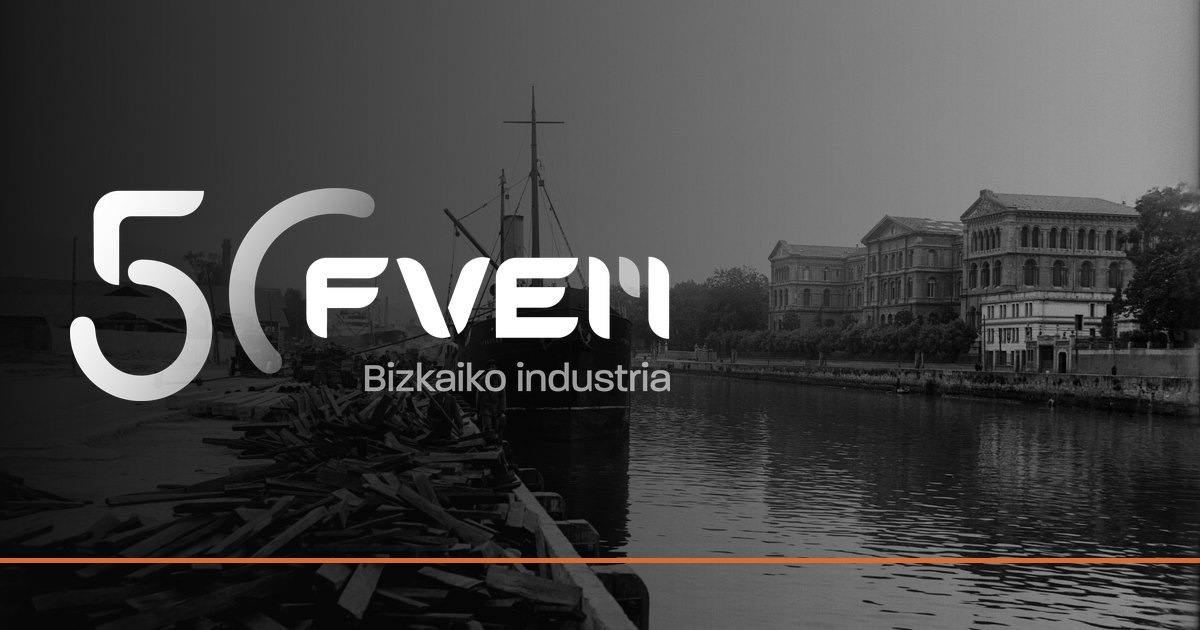
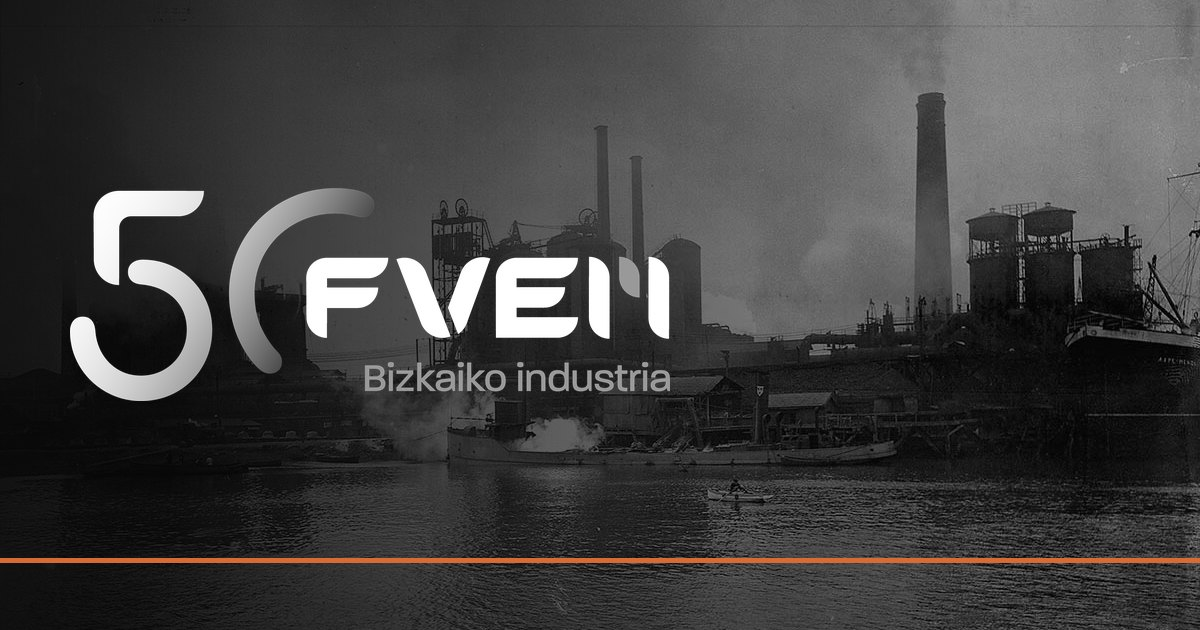
Nueva foto de portada: altos hornos junto a la ría
Se sustituye la foto de fondo de la portada y la imagen que aparece al
compartir la web en redes. Se actualiza también la descripción de la
foto para lectores de pantalla (castellano y euskera).

Claude-Session: https://claude.ai/code/session_0146h9nzdfU48zs9nt7eY8Gm

diff --git a/public/assets/js/config.js b/public/assets/js/config.js
@@ -29,7 +29,7 @@ window.FVEM50 = {
     // Foto de fondo de la portada cuando no hay vídeo (se muestra en blanco y negro, con la animación de marca encima)
     imagen: 'assets/img/portada-2400.jpg',
     imagenMovil: 'assets/img/portada-1200.jpg',
-    imagenAlt: { es: 'Fotografía histórica de un muelle de la ría de Bilbao, con un barco de vapor atracado', eu: 'Bilboko itsasadarreko kai baten argazki historikoa, lurrun-ontzi bat atrakatuta duela' },
+    imagenAlt: { es: 'Fotografía histórica de unos altos hornos junto a la ría, con chimeneas humeantes', eu: 'Itsasadarraren ondoko labe garaien argazki historikoa, tximinia ketsuekin' },
     credito: { es: '', eu: '' },   // p. ej. 'Foto: Archivo …' (autoría y fuente de la imagen)
     completo: '',       // URL de inserción YouTube/Vimeo con sonido, p. ej. 'https://www.youtube.com/embed/XXXX'
     // Vídeos programados: el primero cuya ventana incluya "hoy" sustituye al de arriba
